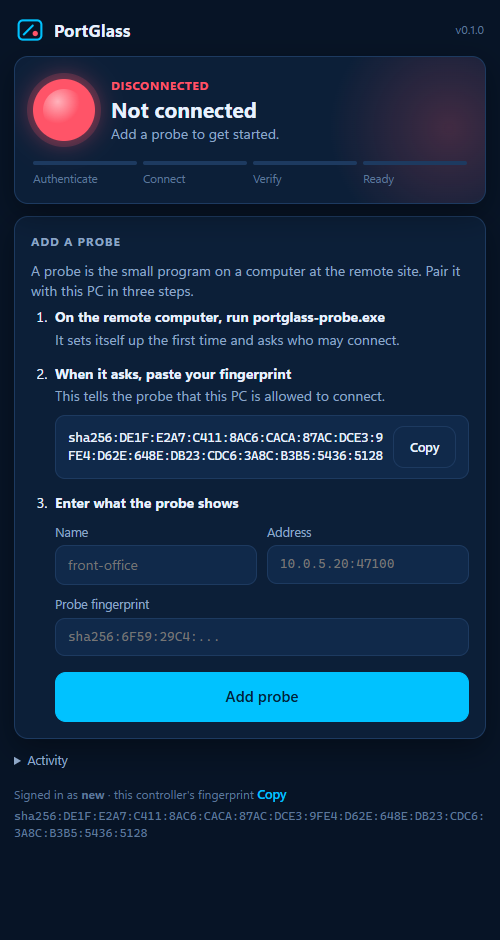
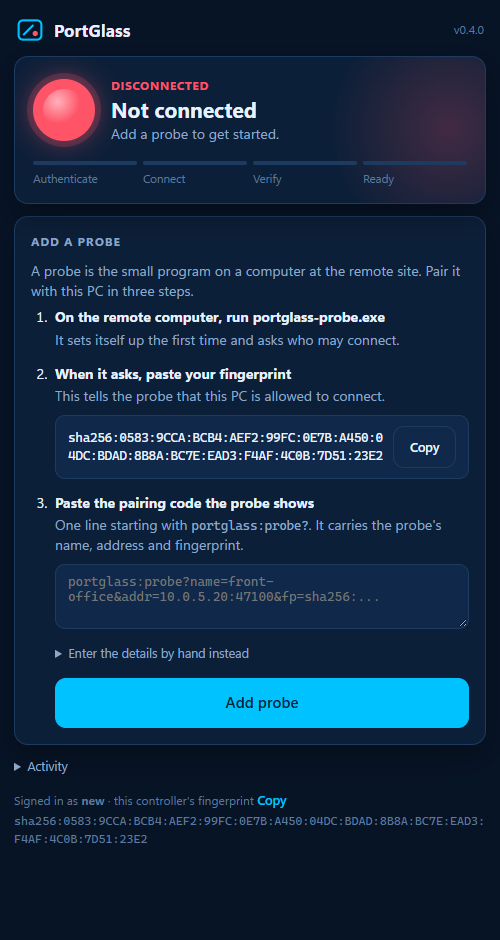
docs: product page for 0.4 (https, pairing, signed updates); refreshed screenshots

Changed region(s): [[0.03, 0.5245, 0.96, 0.8947], [0.12, 0.4628, 0.78, 0.4936], [0.9, 0.0309, 0.93, 0.0617]]

diff --git a/docs/index.html b/docs/index.html
@@ -49,6 +49,11 @@ h2 { font-size: 30px; margin: 0 0 10px; letter-spacing: -.3px; }
 pre { background: var(--panel); border: 1px solid var(--line); border-radius: 12px; padding: 16px; overflow-x: auto; font: 14px/1.55 var(--mono); }
 .not li { margin: 4px 0; }
 footer { padding: 32px 0 48px; color: var(--muted); font-size: 14px; border-top: 1px solid var(--line); }
+.new { padding: 36px 0 40px; }
+.new .eyebrow { margin: 0 0 18px; font-size: 12px; font-weight: 700; letter-spacing: 1.6px; text-transform: uppercase; color: var(--accent); }
+.new h3 { margin: 0 0 4px; font-size: 16px; font-weight: 600; }
+.new p { margin: 0; color: var(--muted); font-size: 15px; }
+.new .grid3 > div { padding-left: 16px; border-left: 2px solid var(--line); }
 @media (max-width: 860px) { .hero { grid-template-columns: 1fr; } .grid3 { grid-template-columns: 1fr; } .states { grid-template-columns: repeat(2, 1fr); } }
 @media (max-width: 480px) { .states { grid-template-columns: 1fr; } nav .links { gap: 12px; } }
 </style>
@@ -67,8 +72,8 @@ footer { padding: 32px 0 48px; color: var(--muted); font-size: 14px; border-top:
   <div class="hero">
     <div>
       <h1>One remote web interface. Nothing else.</h1>
-      <p class="lead">Pick a probe, type the device's address, and a dedicated browser opens on its real admin page — as if it were on your desk. No VPN, no remote desktop, no routing a whole network.</p>
-      <div class="typed">192.168.1.50:80<span class="caret"></span></div>
+      <p class="lead">Pick a device and its real admin page opens in a dedicated browser, as if it were on your desk. No VPN, no remote desktop, no routing a whole network.</p>
+      <div class="typed">192.168.1.50<span class="caret"></span></div>
       <div class="cta">
         <a class="btn primary" href="https://github.com/spilloid/portGlass/releases/latest">Download for Windows</a>
         <a class="btn" href="#start">How to start</a>
@@ -80,13 +85,24 @@ footer { padding: 32px 0 48px; color: var(--muted); font-size: 14px; border-top:
   </div>
 </div>
 
+<section id="new" class="new">
+  <div class="wrap">
+    <p class="eyebrow">New in 0.4</p>
+    <div class="grid3">
+      <div><h3>Follows the device to HTTPS</h3><p>Consoles that switch to https to sign in just work. Each port still needs the probe's approval.</p></div>
+      <div><h3>Pair in one paste</h3><p>The probe prints a pairing code. Paste it once, then open its devices with a click.</p></div>
+      <div><h3>Updates you can verify</h3><p>Every release is signed. PortGlass tells you when there's a new one and installs only when you ask.</p></div>
+    </div>
+  </div>
+</section>
+
 <section id="how">
   <div class="wrap">
     <h2>How it works</h2>
-    <p class="sub">A small probe on a computer at the remote site forwards one TCP port to one approved address, for you only, for a limited time. Everything between you and the probe is TLS 1.3 with both sides' certificates pinned.</p>
+    <p class="sub">A small probe on a computer at the remote site forwards one approved device's web ports to you alone, for a limited time. Everything between you and the probe is TLS 1.3 with both sides' certificates pinned.</p>
     <div class="grid3">
       <div class="card"><h3>1 · Authenticate</h3><p>Your controller and the probe prove who they are with certificates whose fingerprints each side pinned in advance — like SSH keys.</p></div>
-      <div class="card"><h3>2 · Ask for one target</h3><p>The probe checks the address and port against its own allowlist, pins the address, and test-connects before granting a session.</p></div>
+      <div class="card"><h3>2 · Ask for one device</h3><p>The probe checks the address and each port against its own allowlist, pins the address, and test-connects before granting a session.</p></div>
       <div class="card"><h3>3 · Browse it</h3><p>Your installed Chrome opens with a brand-new profile, pointed at the device's own address through the tunnel. Close it and everything is deleted.</p></div>
     </div>
   </div>
@@ -119,6 +135,7 @@ footer { padding: 32px 0 48px; color: var(--muted); font-size: 14px; border-top:
       <li>No command execution, file transfer, scanning, or persistence in the probe.</li>
       <li>No proxy, route, DNS or certificate changes; no virtual adapters.</li>
       <li>Never your personal browser profile, and never a weakened browser.</li>
+      <li>Never updates itself without asking, and never installs a release it can't verify.</li>
     </ul>
   </div>
 </section>
@@ -129,10 +146,10 @@ footer { padding: 32px 0 48px; color: var(--muted); font-size: 14px; border-top:
     <p class="sub">You need Google Chrome on your PC and a Windows computer at the site. No installer, no admin rights.</p>
     <div class="grid3">
       <div class="card"><h3>1 · Open PortGlass</h3><p>Unzip the <a href="https://github.com/spilloid/portGlass/releases/latest">download</a> and double-click <b>portglass.exe</b>. It shows your fingerprint under <i>Add a probe</i>.</p></div>
-      <div class="card"><h3>2 · Start the probe</h3><p>At the site, double-click <b>portglass-probe.exe</b>. Paste your fingerprint and the device to allow, like 192.168.1.50:80. It prints its name, address and fingerprint.</p></div>
-      <div class="card"><h3>3 · Pair and connect</h3><p>Enter those in PortGlass, press <b>Add probe</b>, type the device address and press <b>Connect</b>. The device's page opens.</p></div>
+      <div class="card"><h3>2 · Start the probe</h3><p>At the site, double-click <b>portglass-probe.exe</b>. Paste your fingerprint and the device to allow, like 192.168.1.50. It prints a pairing code.</p></div>
+      <div class="card"><h3>3 · Pair and open</h3><p>Paste the code into PortGlass and press <b>Add probe</b>. Click the device. Its page opens.</p></div>
     </div>
-    <img class="shot" style="margin:28px auto 0;display:block" src="img/controller-firstrun-dark.png" alt="First run: the Add a probe card with your fingerprint and a form for the probe's details" loading="lazy">    <p class="sub" style="margin-top:24px">Prefer a terminal or a managed install? Every step has a command, and the probe has an administrator install script.
+    <img class="shot" style="margin:28px auto 0;display:block" src="img/controller-firstrun-dark.png" alt="First run: the Add a probe card with your fingerprint and a box for the probe's pairing code" loading="lazy">    <p class="sub" style="margin-top:24px">Prefer a terminal or a managed install? Every step has a command, and the probe has an administrator install script.
       Docs: <a href="https://github.com/spilloid/portGlass/blob/main/docs/architecture.md">architecture</a> ·
       <a href="https://github.com/spilloid/portGlass/blob/main/docs/security-model.md">security model</a> ·
       <a href="https://github.com/spilloid/portGlass/blob/main/docs/deployment.md">deployment, firewall &amp; EDR</a> ·
